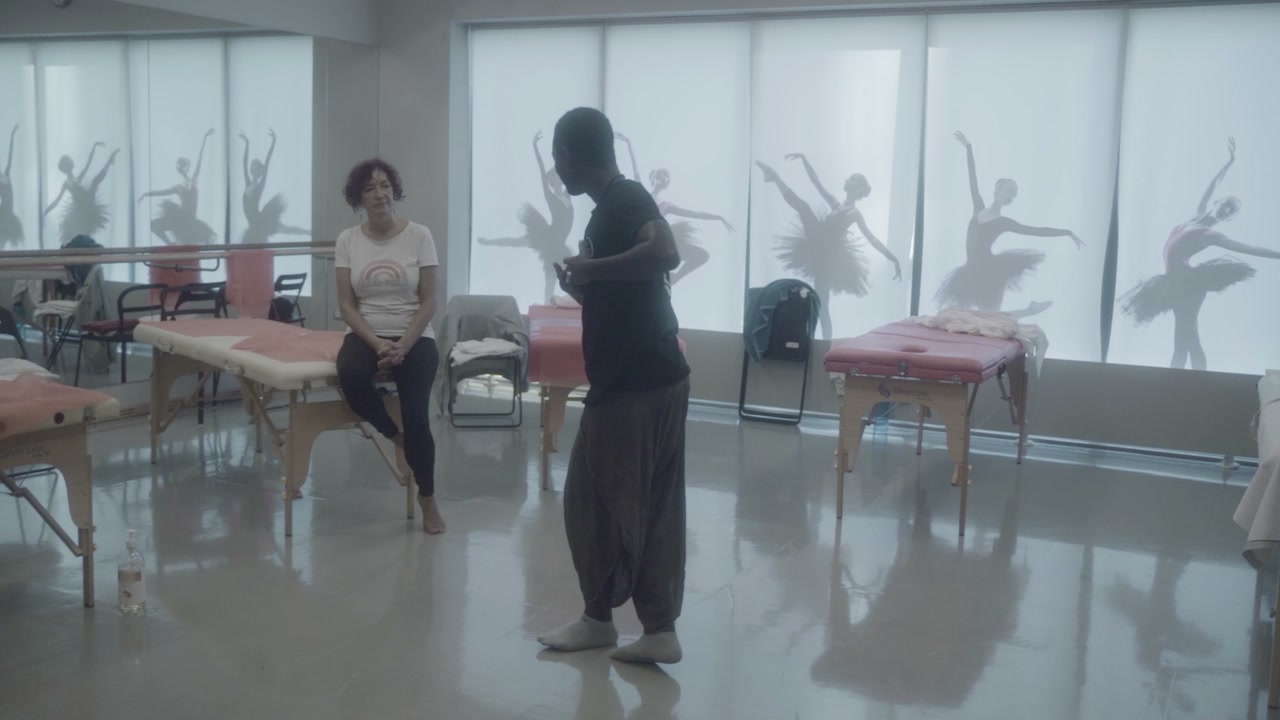
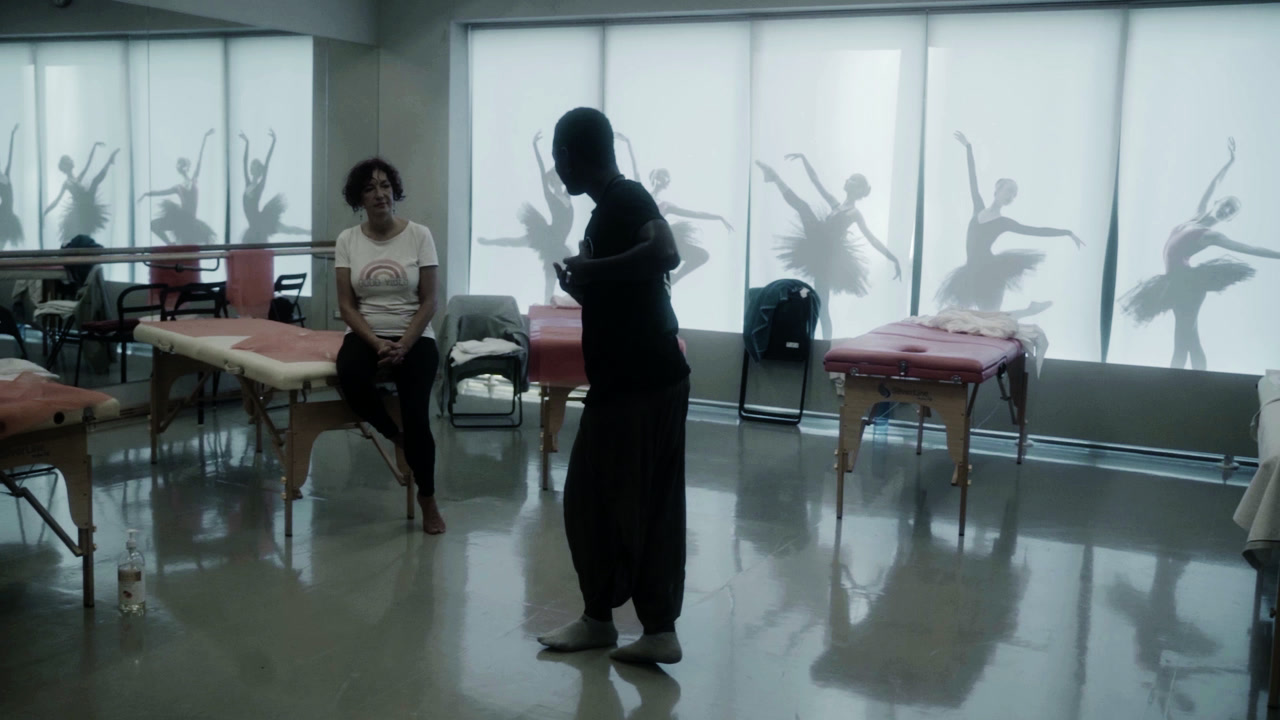
Lomi Lomi final polish: video loop, typography, bio, grid
P1 — Hero video: 12.2s loop (3 segments + 2×dissolve 0.4s)
  - t=8–12s (close teaching) + t=19–22.5s (classroom depth) + t=38–43.5s (dance studio)
  - Color grade: eq contrast=1.18, brightness=-0.04, curves shadow crush
  - Result: 4.0MB, no tropes, ballet silhouettes visible, deep blacks
  - Poster: lomi-hero-poster.jpg updated with same grade

P2 — Hero typography
  - Headline: 2.15/2.45/2.9rem, leading-[1.12] (was 1.17), stronger textShadow
  - Body: 14.5px sm, leading-[1.82], opacity 0.68 (was 0.58)
  - Label: tracking-[0.35em], opacity 0.68 (was 0.55)
  - Meta strip: opacity 0.44, letterSpacing 0.07em
  - Gold separator: w-12 (was w-10), opacity 0.48
  - Hero content: pb-[15%] md:pb-[10%] (was 18%/8%)

P3 — Predavač bio rewrite + portrait crop
  - New opening: "Devetnaest godina, osam zemalja, 820 polaznika..."
  - Credentials embedded in para 2, not bulleted
  - objectPosition: center 12% (was center top)

P4 — Photo grid: 1.55fr/1fr (was 1.4fr), gap 5px

P5 — Micro polish throughout

diff --git a/src/pages/LomiLomiPage.tsx b/src/pages/LomiLomiPage.tsx
@@ -167,7 +167,7 @@ const LomiLomiPage: React.FC = () => {
         />
 
         <motion.div style={{ opacity: heroOpacity, y: heroY }} className="absolute inset-0">
-          <div className="container mx-auto px-6 relative z-10 h-full flex items-end pb-[18%] md:pb-[8%]">
+          <div className="container mx-auto px-6 relative z-10 h-full flex items-end pb-[15%] md:pb-[10%]">
             <div className="w-full" style={{ maxWidth: '50rem' }}>
 
               <motion.div
@@ -177,8 +177,8 @@ const LomiLomiPage: React.FC = () => {
                 className="mb-6"
               >
                 <span
-                  className="text-[9px] sm:text-[10px] font-normal uppercase tracking-[0.28em] block"
-                  style={{ color: 'rgba(212,175,55,0.55)' }}
+                  className="text-[9px] sm:text-[10px] font-normal uppercase tracking-[0.35em] block"
+                  style={{ color: 'rgba(212,175,55,0.68)' }}
                 >
                   Ancient Wave Lomi Lomi · Zagreb
                 </span>
@@ -190,7 +190,7 @@ const LomiLomiPage: React.FC = () => {
                 transition={{ delay: 0.50, duration: 0.7, ease: 'easeOut' }}
                 className="origin-left mb-9"
               >
-                <div className="w-10 h-px" style={{ backgroundColor: 'rgba(212,175,55,0.40)' }} />
+                <div className="w-12 h-px" style={{ backgroundColor: 'rgba(212,175,55,0.48)' }} />
               </motion.div>
 
               <motion.div
@@ -200,8 +200,8 @@ const LomiLomiPage: React.FC = () => {
                 className="mb-9"
               >
                 <h1
-                  className="font-playfair font-semibold text-white leading-[1.17] text-[2.05rem] sm:text-[2.35rem] md:text-[2.7rem]"
-                  style={{ textShadow: '0 2px 24px rgba(0,0,0,0.72), 0 1px 6px rgba(0,0,0,0.40)' }}
+                  className="font-playfair font-semibold text-white leading-[1.12] text-[2.15rem] sm:text-[2.45rem] md:text-[2.9rem]"
+                  style={{ textShadow: '0 2px 28px rgba(0,0,0,0.80), 0 1px 8px rgba(0,0,0,0.45)' }}
                 >
                   Val koji počinje<br />
                   u plućima.
@@ -215,8 +215,8 @@ const LomiLomiPage: React.FC = () => {
                 className="mb-9"
               >
                 <p
-                  className="text-[13.5px] sm:text-[14px] font-normal leading-[1.75]"
-                  style={{ color: 'rgba(255,255,255,0.58)', maxWidth: '44ch' }}
+                  className="text-[13.5px] sm:text-[14.5px] font-normal leading-[1.82]"
+                  style={{ color: 'rgba(255,255,255,0.68)', maxWidth: '44ch' }}
                 >
                   Havajska tehnika koja terapeuta uči disati s klijentom —
                   i iz toga izvući pokret koji ne iscrpljuje ni jednog ni drugog.
@@ -237,7 +237,7 @@ const LomiLomiPage: React.FC = () => {
                     )}
                     <span
                       className="font-normal"
-                      style={{ fontSize: '11px', letterSpacing: '0.05em', color: 'rgba(255,255,255,0.35)' }}
+                      style={{ fontSize: '11px', letterSpacing: '0.07em', color: 'rgba(255,255,255,0.44)' }}
                     >
                       {item}
                     </span>
@@ -570,8 +570,8 @@ const LomiLomiPage: React.FC = () => {
             custom={0}
           >
             <div
-              className="grid gap-2"
-              style={{ gridTemplateColumns: '1.4fr 1fr', gridTemplateRows: 'auto auto' }}
+              className="grid gap-[5px]"
+              style={{ gridTemplateColumns: '1.55fr 1fr', gridTemplateRows: 'auto auto' }}
             >
               {/* Image 1 — dominant teaching moment */}
               <div
@@ -641,7 +641,7 @@ const LomiLomiPage: React.FC = () => {
                   src="/lovable-uploads/lomi-predavac-awudi-smijeh.jpg"
                   alt="Dr. Awudi Atitsogbui — voditelj Lomi Lomi edukacije"
                   className="w-full h-full object-cover"
-                  style={{ objectPosition: 'center top' }}
+                  style={{ objectPosition: 'center 12%' }}
                   loading="lazy"
                 />
               </div>
@@ -662,14 +662,18 @@ const LomiLomiPage: React.FC = () => {
                 Dr. Awudi Atitsogbui
               </h2>
               <p className="text-[13.5px] leading-[1.88] font-normal mb-5" style={{ color: '#7A7570' }}>
-                Više od 19 godina podučava Lomi Lomi i afro-healing tehnike. Individualno i u
-                masterclass formatu, radio je s više od 820 terapeuta diljem Italije, Švicarske,
-                Norveške, Srbije, Indije, Zapadne Afrike i Hrvatske.
+                Devetnaest godina, osam zemalja, 820 polaznika. Terapeut koji dođe na
+                njegovu edukaciju ne odlazi s novom rutinom — odlazi s drukčijim
+                razumijevanjem onoga što već radi.
               </p>
               <p className="text-[13.5px] leading-[1.88] font-normal mb-5" style={{ color: '#7A7570' }}>
-                Školovan na havajskim otocima u tradiciji drevnog Wave Lomi Lomija. Trostruki
-                svjetski prvak u Lomi Lomi masaži — tehnika kojom osvaja natjecanja ista je
-                ona koju podučava na edukacijama.
+                Predsjednik Svjetske federacije masaže, manualne terapije i Nuad Thaija.
+                Suorganizator Hrvatskog međunarodnog prvenstva u masaži. Trostruki svjetski
+                prvak u manualnim terapijama — ista tehnika kojom osvaja natjecanja
+                podučava se na ovoj edukaciji.
+              </p>
+              <p className="text-[13.5px] leading-[1.88] font-normal mb-5" style={{ color: '#7A7570' }}>
+                Školovan u tradiciji drevnog Wave Lomi Lomija na havajskim otocima.
               </p>
               <p className="text-[13.5px] leading-[1.88] font-normal" style={{ color: '#7A7570' }}>
                 Tečaj se provodi na engleskom. Komunikacija je fizička, ne verbalna —